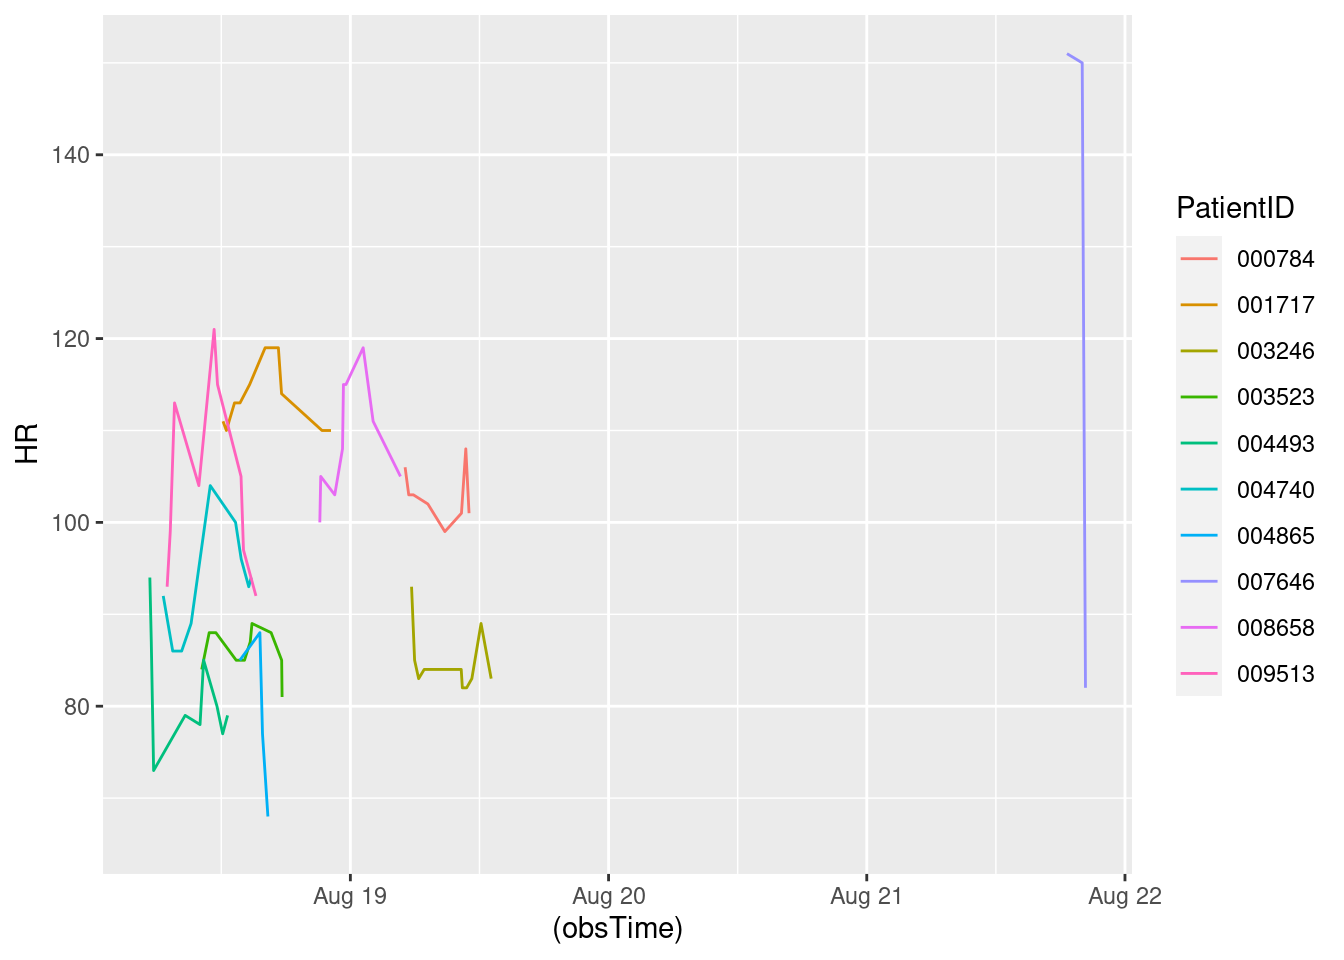
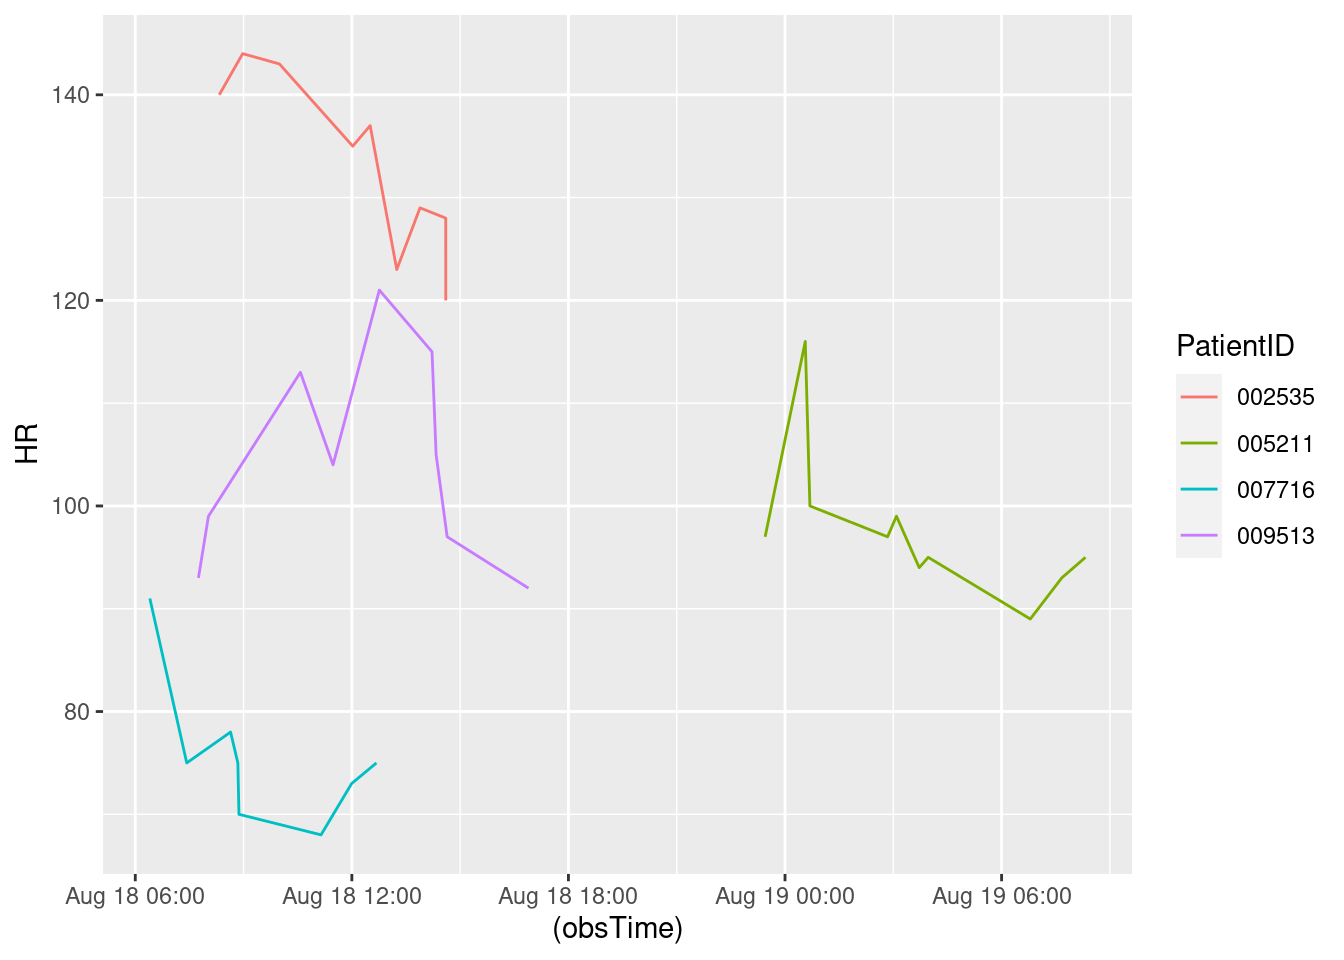
Updated report

diff --git a/HW7.html b/HW7.html
@@ -150,7 +150,7 @@ The following object is masked from 'package:purrr':
 </div>
 <div class="sourceCode cell-code" id="cb8"><pre class="sourceCode r code-with-copy"><code class="sourceCode r"><span id="cb8-1"><a href="#cb8-1" aria-hidden="true" tabindex="-1"></a><span class="fu">toc</span>()</span></code><button title="Copy to Clipboard" class="code-copy-button"><i class="bi"></i></button></pre></div>
 <div class="cell-output cell-output-stdout">
-<pre><code>5.203 sec elapsed</code></pre>
+<pre><code>3.245 sec elapsed</code></pre>
 </div>
 <div class="sourceCode cell-code" id="cb10"><pre class="sourceCode r code-with-copy"><code class="sourceCode r"><span id="cb10-1"><a href="#cb10-1" aria-hidden="true" tabindex="-1"></a><span class="fu">tic</span>()</span>
 <span id="cb10-2"><a href="#cb10-2" aria-hidden="true" tabindex="-1"></a>test1<span class="ot">=</span><span class="fu">makeSepsisDataset</span>(<span class="at">n=</span><span class="dv">50</span>,<span class="at">read_fn =</span> <span class="st">"read_delim"</span>)</span>
@@ -160,7 +160,7 @@ The following object is masked from 'package:purrr':
 </div>
 <div class="sourceCode cell-code" id="cb12"><pre class="sourceCode r code-with-copy"><code class="sourceCode r"><span id="cb12-1"><a href="#cb12-1" aria-hidden="true" tabindex="-1"></a><span class="fu">toc</span>()</span></code><button title="Copy to Clipboard" class="code-copy-button"><i class="bi"></i></button></pre></div>
 <div class="cell-output cell-output-stdout">
-<pre><code>21.685 sec elapsed</code></pre>
+<pre><code>14.035 sec elapsed</code></pre>
 </div>
 <div class="sourceCode cell-code" id="cb14"><pre class="sourceCode r code-with-copy"><code class="sourceCode r"><span id="cb14-1"><a href="#cb14-1" aria-hidden="true" tabindex="-1"></a><span class="fu">tic</span>()</span>
 <span id="cb14-2"><a href="#cb14-2" aria-hidden="true" tabindex="-1"></a>test1<span class="ot">=</span><span class="fu">makeSepsisDataset</span>(<span class="at">n=</span><span class="dv">100</span>,<span class="at">read_fn =</span> <span class="st">"fread"</span>)</span>
@@ -170,7 +170,7 @@ The following object is masked from 'package:purrr':
 </div>
 <div class="sourceCode cell-code" id="cb16"><pre class="sourceCode r code-with-copy"><code class="sourceCode r"><span id="cb16-1"><a href="#cb16-1" aria-hidden="true" tabindex="-1"></a><span class="fu">toc</span>()</span></code><button title="Copy to Clipboard" class="code-copy-button"><i class="bi"></i></button></pre></div>
 <div class="cell-output cell-output-stdout">
-<pre><code>10.298 sec elapsed</code></pre>
+<pre><code>5.676 sec elapsed</code></pre>
 </div>
 <div class="sourceCode cell-code" id="cb18"><pre class="sourceCode r code-with-copy"><code class="sourceCode r"><span id="cb18-1"><a href="#cb18-1" aria-hidden="true" tabindex="-1"></a><span class="fu">tic</span>()</span>
 <span id="cb18-2"><a href="#cb18-2" aria-hidden="true" tabindex="-1"></a>test1<span class="ot">=</span><span class="fu">makeSepsisDataset</span>(<span class="at">n=</span><span class="dv">100</span>,<span class="at">read_fn =</span> <span class="st">"read_delim"</span>)</span>
@@ -180,7 +180,7 @@ The following object is masked from 'package:purrr':
 </div>
 <div class="sourceCode cell-code" id="cb20"><pre class="sourceCode r code-with-copy"><code class="sourceCode r"><span id="cb20-1"><a href="#cb20-1" aria-hidden="true" tabindex="-1"></a><span class="fu">toc</span>()</span></code><button title="Copy to Clipboard" class="code-copy-button"><i class="bi"></i></button></pre></div>
 <div class="cell-output cell-output-stdout">
-<pre><code>37.785 sec elapsed</code></pre>
+<pre><code>22.515 sec elapsed</code></pre>
 </div>
 <div class="sourceCode cell-code" id="cb22"><pre class="sourceCode r code-with-copy"><code class="sourceCode r"><span id="cb22-1"><a href="#cb22-1" aria-hidden="true" tabindex="-1"></a><span class="fu">tic</span>()</span>
 <span id="cb22-2"><a href="#cb22-2" aria-hidden="true" tabindex="-1"></a>test1<span class="ot">=</span><span class="fu">makeSepsisDataset</span>(<span class="at">n=</span><span class="dv">500</span>,<span class="at">read_fn =</span> <span class="st">"fread"</span>)</span>
@@ -190,7 +190,7 @@ The following object is masked from 'package:purrr':
 </div>
 <div class="sourceCode cell-code" id="cb24"><pre class="sourceCode r code-with-copy"><code class="sourceCode r"><span id="cb24-1"><a href="#cb24-1" aria-hidden="true" tabindex="-1"></a><span class="fu">toc</span>()</span></code><button title="Copy to Clipboard" class="code-copy-button"><i class="bi"></i></button></pre></div>
 <div class="cell-output cell-output-stdout">
-<pre><code>47.63 sec elapsed</code></pre>
+<pre><code>28.604 sec elapsed</code></pre>
 </div>
 <div class="sourceCode cell-code" id="cb26"><pre class="sourceCode r code-with-copy"><code class="sourceCode r"><span id="cb26-1"><a href="#cb26-1" aria-hidden="true" tabindex="-1"></a><span class="fu">tic</span>()</span>
 <span id="cb26-2"><a href="#cb26-2" aria-hidden="true" tabindex="-1"></a>test1<span class="ot">=</span><span class="fu">makeSepsisDataset</span>(<span class="at">n=</span><span class="dv">500</span>,<span class="at">read_fn =</span> <span class="st">"read_delim"</span>)</span>
@@ -200,7 +200,7 @@ The following object is masked from 'package:purrr':
 </div>
 <div class="sourceCode cell-code" id="cb28"><pre class="sourceCode r code-with-copy"><code class="sourceCode r"><span id="cb28-1"><a href="#cb28-1" aria-hidden="true" tabindex="-1"></a><span class="fu">toc</span>()</span></code><button title="Copy to Clipboard" class="code-copy-button"><i class="bi"></i></button></pre></div>
 <div class="cell-output cell-output-stdout">
-<pre><code>191.249 sec elapsed</code></pre>
+<pre><code>112.15 sec elapsed</code></pre>
 </div>
 </div>
 <p>Problem 3: Speed reading</p>
@@ -242,7 +242,7 @@ dttm (1): obsTime
 <div class="sourceCode cell-code" id="cb35"><pre class="sourceCode r code-with-copy"><code class="sourceCode r"><span id="cb35-1"><a href="#cb35-1" aria-hidden="true" tabindex="-1"></a><span class="co">#Sys.Date()</span></span>
 <span id="cb35-2"><a href="#cb35-2" aria-hidden="true" tabindex="-1"></a><span class="fu">Sys.time</span>()</span></code><button title="Copy to Clipboard" class="code-copy-button"><i class="bi"></i></button></pre></div>
 <div class="cell-output cell-output-stdout">
-<pre><code>[1] "2023-08-18 05:21:43 UTC"</code></pre>
+<pre><code>[1] "2023-08-18 06:24:14 UTC"</code></pre>
 </div>
 <div class="sourceCode cell-code" id="cb37"><pre class="sourceCode r code-with-copy"><code class="sourceCode r"><span id="cb37-1"><a href="#cb37-1" aria-hidden="true" tabindex="-1"></a>dfnew<span class="ot">=</span>df <span class="sc">%&gt;%</span><span class="fu">subset</span>(SepsisLabel<span class="sc">==</span><span class="dv">1</span>)</span>
 <span id="cb37-2"><a href="#cb37-2" aria-hidden="true" tabindex="-1"></a></span>
@@ -257,28 +257,19 @@ dttm (1): obsTime
 <span id="cb37-11"><a href="#cb37-11" aria-hidden="true" tabindex="-1"></a></span>
 <span id="cb37-12"><a href="#cb37-12" aria-hidden="true" tabindex="-1"></a><span class="fu">print</span>(res)</span></code><button title="Copy to Clipboard" class="code-copy-button"><i class="bi"></i></button></pre></div>
 <div class="cell-output cell-output-stdout">
-<pre><code># A tibble: 10 × 7
-# Groups:   PatientID [10]
-   PatientID ICULOS    HR  Temp  Resp SepsisLabel obsTime            
-   &lt;chr&gt;      &lt;int&gt; &lt;int&gt; &lt;dbl&gt; &lt;int&gt;       &lt;int&gt; &lt;dttm&gt;             
- 1 000784        30   101  NA      16           1 2023-08-19 11:01:49
- 2 001717        17   110  NA      23           1 2023-08-18 22:11:53
- 3 003246        32    83  NA      15           1 2023-08-19 13:05:14
- 4 003523        13    81  38.2    19           1 2023-08-18 17:39:11
- 5 004493         8    79  37.1    27           1 2023-08-18 12:35:15
- 6 004740        10    94  NA      12           1 2023-08-18 14:47:05
- 7 004865        12    68  38.2    14           1 2023-08-18 16:20:05
- 8 007646        87    82  NA      25           1 2023-08-21 20:19:40
- 9 008658        25   105  NA      31           1 2023-08-19 04:39:24
-10 009513        11    92  36.9    20           1 2023-08-18 15:13:25</code></pre>
+<pre><code># A tibble: 4 × 7
+# Groups:   PatientID [4]
+  PatientID ICULOS    HR  Temp  Resp SepsisLabel obsTime            
+  &lt;chr&gt;      &lt;int&gt; &lt;int&gt; &lt;dbl&gt; &lt;int&gt;       &lt;int&gt; &lt;dttm&gt;             
+1 002535        10   120  37.9    18           1 2023-08-18 14:36:07
+2 005211        28    95  NA      18           1 2023-08-19 08:19:25
+3 007716         7    75  NA      17           1 2023-08-18 12:40:49
+4 009513        11    92  36.9    20           1 2023-08-18 16:53:34</code></pre>
 </div>
 </div>
 <div class="cell">
 <div class="sourceCode cell-code" id="cb39"><pre class="sourceCode r code-with-copy"><code class="sourceCode r"><span id="cb39-1"><a href="#cb39-1" aria-hidden="true" tabindex="-1"></a>dfnew <span class="sc">%&gt;%</span></span>
 <span id="cb39-2"><a href="#cb39-2" aria-hidden="true" tabindex="-1"></a>  <span class="fu">ggplot</span>()<span class="sc">+</span><span class="fu">geom_line</span>(<span class="fu">aes</span>(<span class="at">y=</span>HR,<span class="at">x=</span>(obsTime),<span class="at">color=</span>PatientID))</span></code><button title="Copy to Clipboard" class="code-copy-button"><i class="bi"></i></button></pre></div>
-<div class="cell-output cell-output-stderr">
-<pre><code>Warning: Removed 7 rows containing missing values (`geom_line()`).</code></pre>
-</div>
 <div class="cell-output-display">
 <p><img src="HW7_files/figure-html/unnamed-chunk-6-1.png" class="img-fluid" width="672"></p>
 </div>
@@ -287,7 +278,7 @@ dttm (1): obsTime
 <section id="display-the-most-recent-data" class="level2">
 <h2 class="anchored" data-anchor-id="display-the-most-recent-data">Display the most recent data</h2>
 <div class="cell">
-<div class="sourceCode cell-code" id="cb41"><pre class="sourceCode r code-with-copy"><code class="sourceCode r"><span id="cb41-1"><a href="#cb41-1" aria-hidden="true" tabindex="-1"></a>most_recent_data</span></code><button title="Copy to Clipboard" class="code-copy-button"><i class="bi"></i></button></pre></div>
+<div class="sourceCode cell-code" id="cb40"><pre class="sourceCode r code-with-copy"><code class="sourceCode r"><span id="cb40-1"><a href="#cb40-1" aria-hidden="true" tabindex="-1"></a>most_recent_data</span></code><button title="Copy to Clipboard" class="code-copy-button"><i class="bi"></i></button></pre></div>
 <div class="cell-output cell-output-stdout">
 <pre><code># A tibble: 50 × 7
 # Groups:   PatientID [50]
@@ -310,32 +301,32 @@ dttm (1): obsTime
 <section id="calculate-the-difference" class="level2">
 <h2 class="anchored" data-anchor-id="calculate-the-difference">Calculate the difference</h2>
 <div class="cell">
-<div class="sourceCode cell-code" id="cb43"><pre class="sourceCode r code-with-copy"><code class="sourceCode r"><span id="cb43-1"><a href="#cb43-1" aria-hidden="true" tabindex="-1"></a><span class="fu">library</span>(dplyr)</span>
-<span id="cb43-2"><a href="#cb43-2" aria-hidden="true" tabindex="-1"></a><span class="fu">library</span>(tidyr)</span>
-<span id="cb43-3"><a href="#cb43-3" aria-hidden="true" tabindex="-1"></a><span class="fu">library</span>(knitr)</span>
-<span id="cb43-4"><a href="#cb43-4" aria-hidden="true" tabindex="-1"></a>get_observation_data <span class="ot">&lt;-</span> <span class="cf">function</span>(data, n, column_suffix) {</span>
-<span id="cb43-5"><a href="#cb43-5" aria-hidden="true" tabindex="-1"></a>  data <span class="sc">%&gt;%</span></span>
-<span id="cb43-6"><a href="#cb43-6" aria-hidden="true" tabindex="-1"></a>    <span class="fu">group_by</span>(PatientID) <span class="sc">%&gt;%</span></span>
-<span id="cb43-7"><a href="#cb43-7" aria-hidden="true" tabindex="-1"></a>    <span class="fu">slice_max</span>(<span class="at">order_by =</span> obsTime, <span class="at">n =</span> n) <span class="sc">%&gt;%</span></span>
-<span id="cb43-8"><a href="#cb43-8" aria-hidden="true" tabindex="-1"></a>    <span class="fu">select</span>(<span class="sc">-</span><span class="fu">c</span>(ICULOS, SepsisLabel, obsTime)) <span class="sc">%&gt;%</span></span>
-<span id="cb43-9"><a href="#cb43-9" aria-hidden="true" tabindex="-1"></a>    <span class="fu">rename_at</span>(<span class="fu">vars</span>(HR, Temp, Resp),</span>
-<span id="cb43-10"><a href="#cb43-10" aria-hidden="true" tabindex="-1"></a>              <span class="fu">list</span>(<span class="sc">~</span><span class="fu">paste0</span>(., <span class="st">"_"</span>, column_suffix)))</span>
-<span id="cb43-11"><a href="#cb43-11" aria-hidden="true" tabindex="-1"></a>}</span>
-<span id="cb43-12"><a href="#cb43-12" aria-hidden="true" tabindex="-1"></a></span>
-<span id="cb43-13"><a href="#cb43-13" aria-hidden="true" tabindex="-1"></a></span>
-<span id="cb43-14"><a href="#cb43-14" aria-hidden="true" tabindex="-1"></a></span>
-<span id="cb43-15"><a href="#cb43-15" aria-hidden="true" tabindex="-1"></a></span>
-<span id="cb43-16"><a href="#cb43-16" aria-hidden="true" tabindex="-1"></a>last_obs <span class="ot">&lt;-</span> <span class="fu">get_observation_data</span>(new_data, <span class="dv">1</span>, <span class="st">"last"</span>)</span>
-<span id="cb43-17"><a href="#cb43-17" aria-hidden="true" tabindex="-1"></a>penultimate_obs <span class="ot">&lt;-</span> <span class="fu">get_observation_data</span>(new_data, <span class="dv">2</span>, <span class="st">"penult"</span>)</span>
-<span id="cb43-18"><a href="#cb43-18" aria-hidden="true" tabindex="-1"></a>joined_data <span class="ot">&lt;-</span> <span class="fu">full_join</span>(last_obs, penultimate_obs) <span class="sc">%&gt;%</span></span>
-<span id="cb43-19"><a href="#cb43-19" aria-hidden="true" tabindex="-1"></a>  <span class="fu">transmute</span>(PatientID,</span>
-<span id="cb43-20"><a href="#cb43-20" aria-hidden="true" tabindex="-1"></a>            <span class="st">`</span><span class="at">Temperature change</span><span class="st">`</span> <span class="ot">=</span> Temp_last <span class="sc">-</span> Temp_penult,</span>
-<span id="cb43-21"><a href="#cb43-21" aria-hidden="true" tabindex="-1"></a>            <span class="st">`</span><span class="at">Heart rate change</span><span class="st">`</span> <span class="ot">=</span> HR_last <span class="sc">-</span> HR_penult,</span>
-<span id="cb43-22"><a href="#cb43-22" aria-hidden="true" tabindex="-1"></a>            <span class="st">`</span><span class="at">Respiratory rate change</span><span class="st">`</span> <span class="ot">=</span> Resp_last <span class="sc">-</span> Resp_penult)</span></code><button title="Copy to Clipboard" class="code-copy-button"><i class="bi"></i></button></pre></div>
+<div class="sourceCode cell-code" id="cb42"><pre class="sourceCode r code-with-copy"><code class="sourceCode r"><span id="cb42-1"><a href="#cb42-1" aria-hidden="true" tabindex="-1"></a><span class="fu">library</span>(dplyr)</span>
+<span id="cb42-2"><a href="#cb42-2" aria-hidden="true" tabindex="-1"></a><span class="fu">library</span>(tidyr)</span>
+<span id="cb42-3"><a href="#cb42-3" aria-hidden="true" tabindex="-1"></a><span class="fu">library</span>(knitr)</span>
+<span id="cb42-4"><a href="#cb42-4" aria-hidden="true" tabindex="-1"></a>get_observation_data <span class="ot">&lt;-</span> <span class="cf">function</span>(data, n, column_suffix) {</span>
+<span id="cb42-5"><a href="#cb42-5" aria-hidden="true" tabindex="-1"></a>  data <span class="sc">%&gt;%</span></span>
+<span id="cb42-6"><a href="#cb42-6" aria-hidden="true" tabindex="-1"></a>    <span class="fu">group_by</span>(PatientID) <span class="sc">%&gt;%</span></span>
+<span id="cb42-7"><a href="#cb42-7" aria-hidden="true" tabindex="-1"></a>    <span class="fu">slice_max</span>(<span class="at">order_by =</span> obsTime, <span class="at">n =</span> n) <span class="sc">%&gt;%</span></span>
+<span id="cb42-8"><a href="#cb42-8" aria-hidden="true" tabindex="-1"></a>    <span class="fu">select</span>(<span class="sc">-</span><span class="fu">c</span>(ICULOS, SepsisLabel, obsTime)) <span class="sc">%&gt;%</span></span>
+<span id="cb42-9"><a href="#cb42-9" aria-hidden="true" tabindex="-1"></a>    <span class="fu">rename_at</span>(<span class="fu">vars</span>(HR, Temp, Resp),</span>
+<span id="cb42-10"><a href="#cb42-10" aria-hidden="true" tabindex="-1"></a>              <span class="fu">list</span>(<span class="sc">~</span><span class="fu">paste0</span>(., <span class="st">"_"</span>, column_suffix)))</span>
+<span id="cb42-11"><a href="#cb42-11" aria-hidden="true" tabindex="-1"></a>}</span>
+<span id="cb42-12"><a href="#cb42-12" aria-hidden="true" tabindex="-1"></a></span>
+<span id="cb42-13"><a href="#cb42-13" aria-hidden="true" tabindex="-1"></a></span>
+<span id="cb42-14"><a href="#cb42-14" aria-hidden="true" tabindex="-1"></a></span>
+<span id="cb42-15"><a href="#cb42-15" aria-hidden="true" tabindex="-1"></a></span>
+<span id="cb42-16"><a href="#cb42-16" aria-hidden="true" tabindex="-1"></a>last_obs <span class="ot">&lt;-</span> <span class="fu">get_observation_data</span>(new_data, <span class="dv">1</span>, <span class="st">"last"</span>)</span>
+<span id="cb42-17"><a href="#cb42-17" aria-hidden="true" tabindex="-1"></a>penultimate_obs <span class="ot">&lt;-</span> <span class="fu">get_observation_data</span>(new_data, <span class="dv">2</span>, <span class="st">"penult"</span>)</span>
+<span id="cb42-18"><a href="#cb42-18" aria-hidden="true" tabindex="-1"></a>joined_data <span class="ot">&lt;-</span> <span class="fu">full_join</span>(last_obs, penultimate_obs) <span class="sc">%&gt;%</span></span>
+<span id="cb42-19"><a href="#cb42-19" aria-hidden="true" tabindex="-1"></a>  <span class="fu">transmute</span>(PatientID,</span>
+<span id="cb42-20"><a href="#cb42-20" aria-hidden="true" tabindex="-1"></a>            <span class="st">`</span><span class="at">Temperature change</span><span class="st">`</span> <span class="ot">=</span> Temp_last <span class="sc">-</span> Temp_penult,</span>
+<span id="cb42-21"><a href="#cb42-21" aria-hidden="true" tabindex="-1"></a>            <span class="st">`</span><span class="at">Heart rate change</span><span class="st">`</span> <span class="ot">=</span> HR_last <span class="sc">-</span> HR_penult,</span>
+<span id="cb42-22"><a href="#cb42-22" aria-hidden="true" tabindex="-1"></a>            <span class="st">`</span><span class="at">Respiratory rate change</span><span class="st">`</span> <span class="ot">=</span> Resp_last <span class="sc">-</span> Resp_penult)</span></code><button title="Copy to Clipboard" class="code-copy-button"><i class="bi"></i></button></pre></div>
 <div class="cell-output cell-output-stderr">
 <pre><code>Joining with `by = join_by(PatientID)`</code></pre>
 </div>
-<div class="sourceCode cell-code" id="cb45"><pre class="sourceCode r code-with-copy"><code class="sourceCode r"><span id="cb45-1"><a href="#cb45-1" aria-hidden="true" tabindex="-1"></a><span class="fu">kable</span>(joined_data, <span class="at">caption =</span> <span class="st">"Patients' Recent Changes in Vital Stats"</span>)</span></code><button title="Copy to Clipboard" class="code-copy-button"><i class="bi"></i></button></pre></div>
+<div class="sourceCode cell-code" id="cb44"><pre class="sourceCode r code-with-copy"><code class="sourceCode r"><span id="cb44-1"><a href="#cb44-1" aria-hidden="true" tabindex="-1"></a><span class="fu">kable</span>(joined_data, <span class="at">caption =</span> <span class="st">"Patients' Recent Changes in Vital Stats"</span>)</span></code><button title="Copy to Clipboard" class="code-copy-button"><i class="bi"></i></button></pre></div>
 <div class="cell-output-display">
 <table class="table table-sm table-striped small">
 <caption>Patients’ Recent Changes in Vital Stats</caption>
